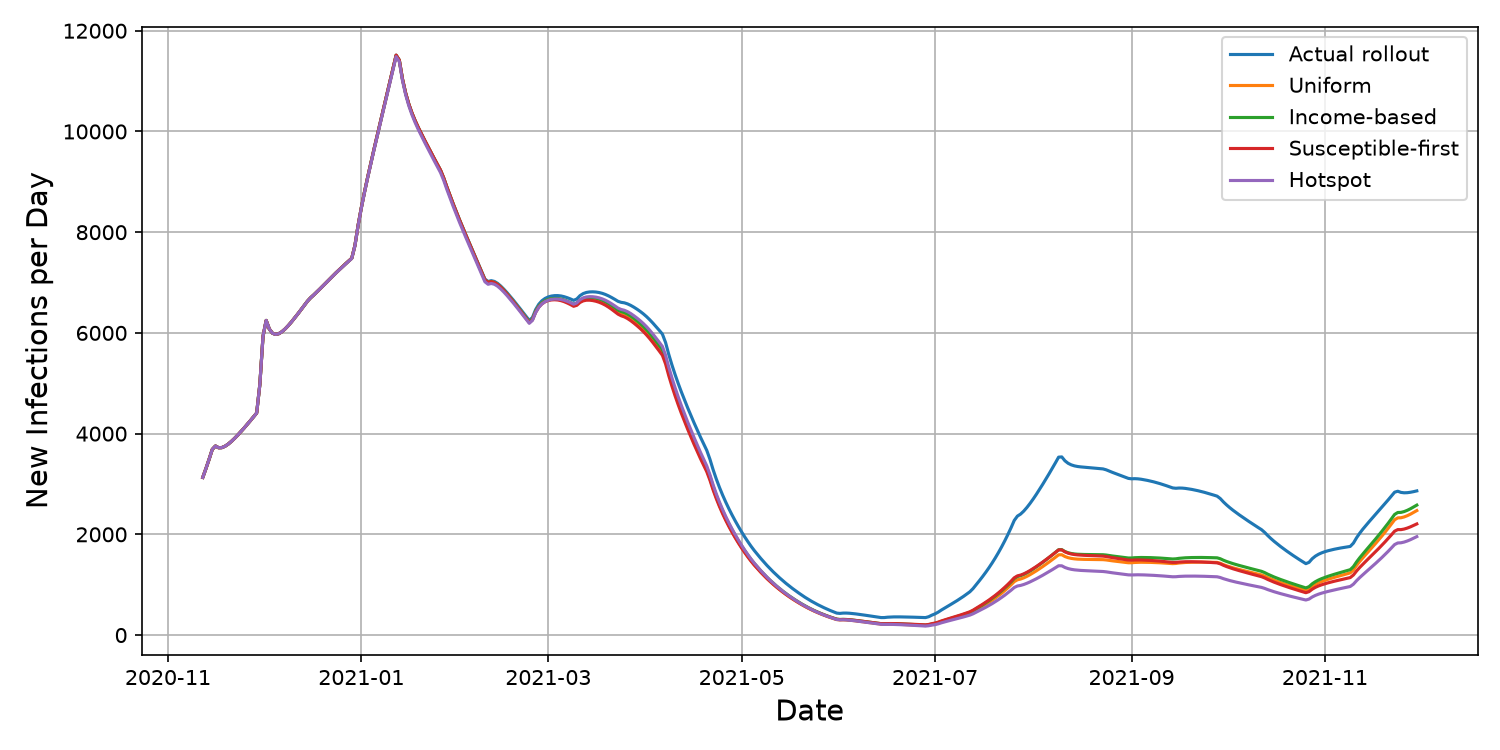
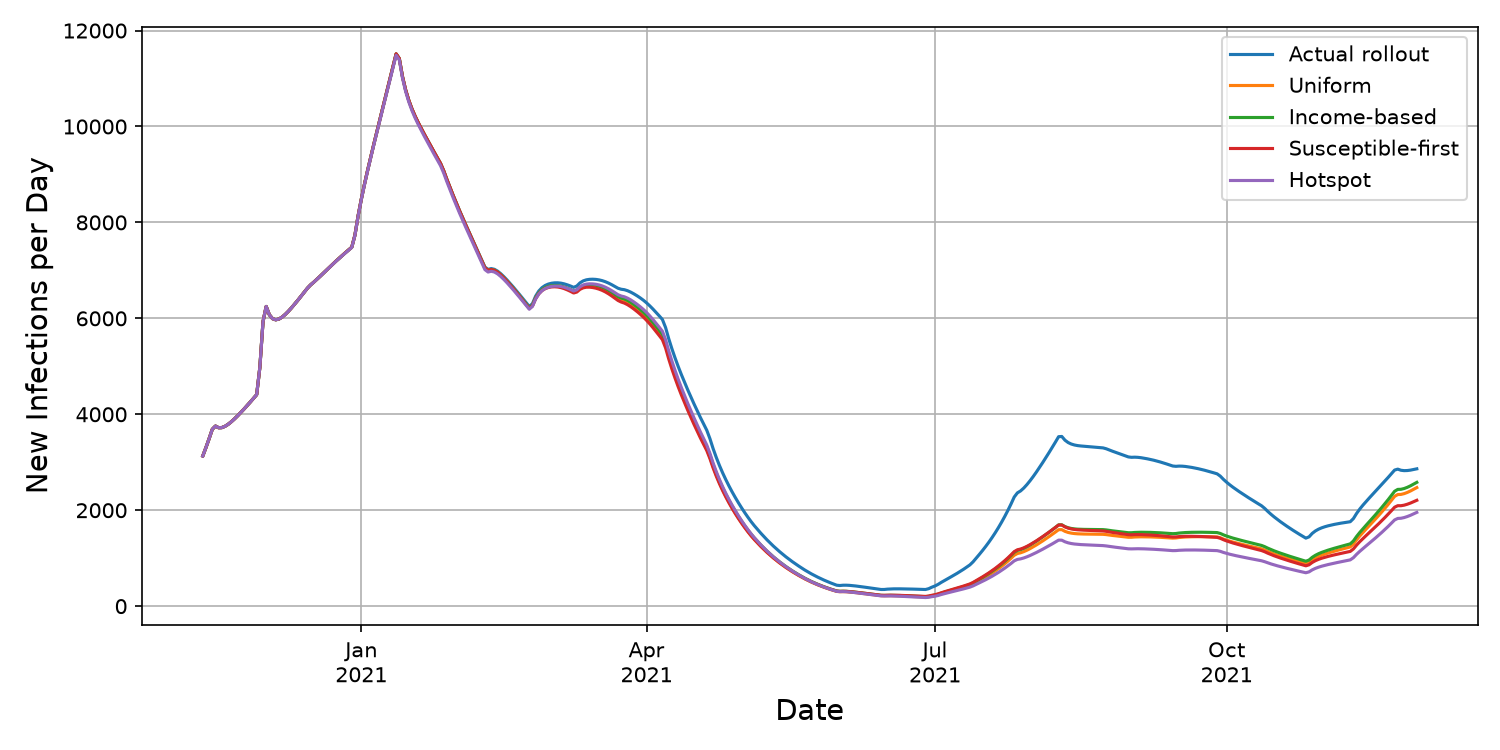
Label months on the strategies over time plot like the SEIRV plots

diff --git a/realistic_model/paper_figs.py b/realistic_model/paper_figs.py
@@ -115,5 +115,7 @@ fig.tight_layout(); fig.savefig(f'{OUT}/strategies_by_quartile.png', dpi=150); p
 fig, ax = plt.subplots(figsize=(10, 5)); d = dates[1:]
 for name in names: ax.plot(d[VSTART - 30:], scen[name]['onsets'][VSTART - 30:].sum(1), label=name)
 ax.set_xlabel('Date', fontsize=LABEL); ax.set_ylabel('New Infections per Day', fontsize=LABEL)
+ax.xaxis.set_major_locator(matplotlib.dates.MonthLocator(bymonth=[1, 4, 7, 10]))
+ax.xaxis.set_major_formatter(matplotlib.dates.DateFormatter('%b\n%Y'))
 ax.grid(True); ax.legend()
 fig.tight_layout(); fig.savefig(f'{OUT}/strategies_over_time.png', dpi=150); plt.close(fig)
